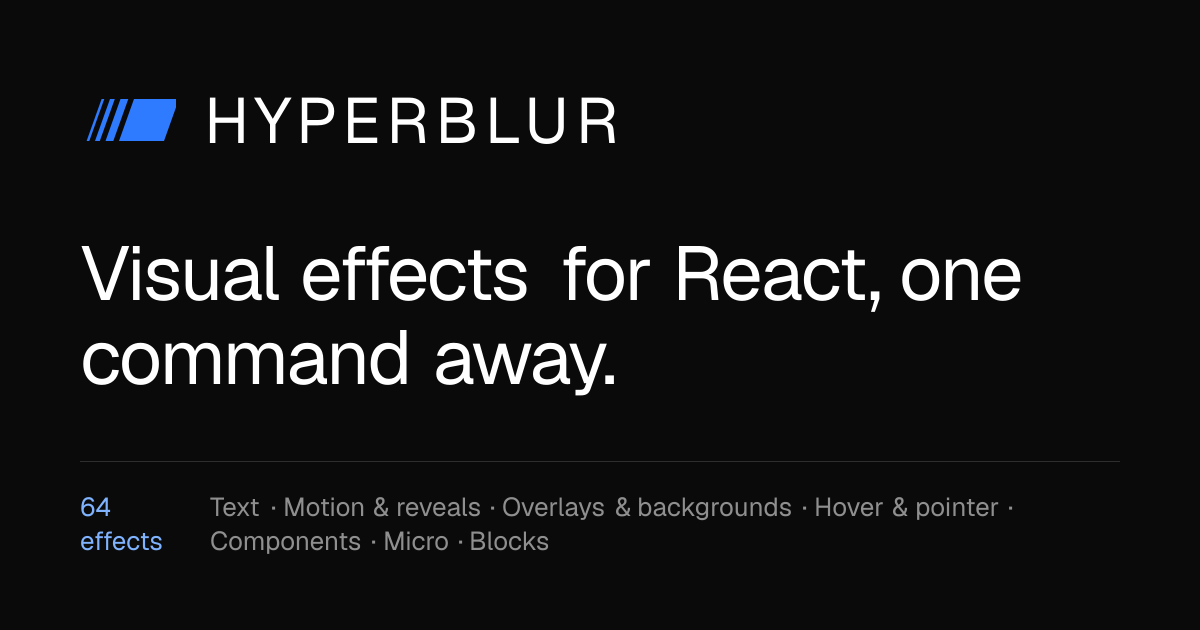
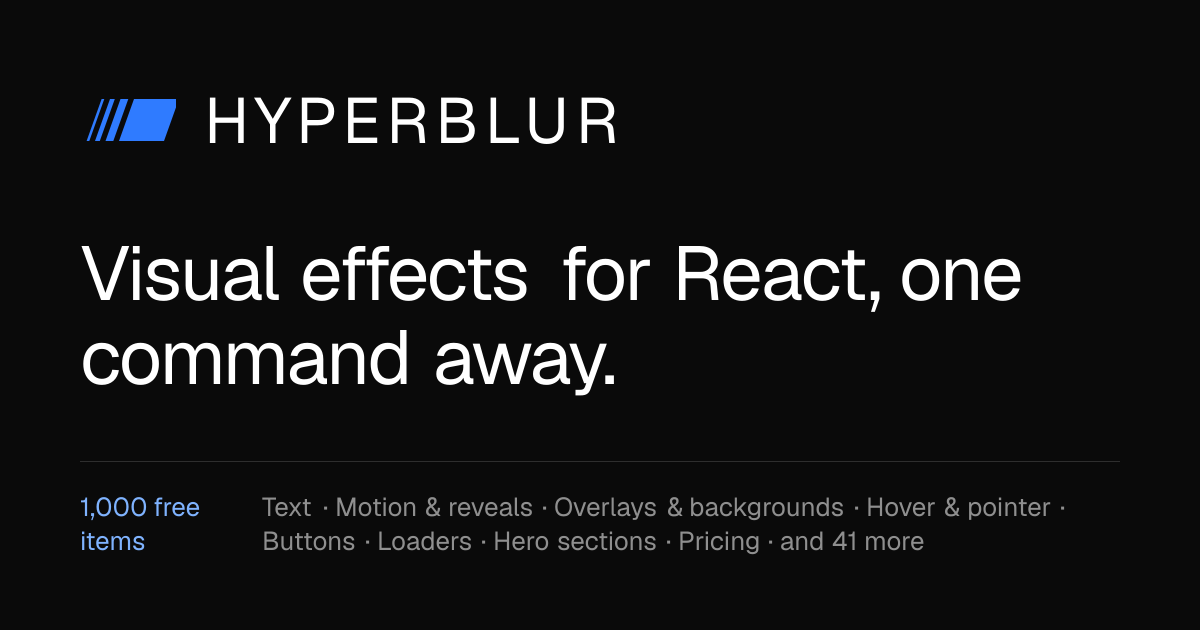
Launch kit: imagem de capa com 1.000 itens e textos com a contagem atual

Changed region(s): [[0.0617, 0.7841, 0.8942, 0.8746]]

diff --git a/launch/listings.md b/launch/listings.md
@@ -1,6 +1,6 @@
 # Hyperblur listings: copy to paste
 
-All copy is in English. Facts only: 998 items in 49 categories across three groups: effects, components and page blocks (heroes, features, bento, pricing, footers, auth, blog, ecommerce and more), MIT license, effects have no dependency besides React, installed with the shadcn CLI, MCP server `@hyperblur/mcp` (stdio), Claude Code plugin `hyperblur`.
+All copy is in English. Facts only: 1,000 items in 49 categories across three groups: effects, components and page blocks (heroes, features, bento, pricing, footers, auth, blog, ecommerce and more), MIT license, effects have no dependency besides React, installed with the shadcn CLI, MCP server `@hyperblur/mcp` (stdio), Claude Code plugin `hyperblur`.
 
 
 ## Shared facts
@@ -24,11 +24,11 @@ All copy is in English. Facts only: 998 items in 49 categories across three grou
 
 Tagline (35 chars): `Copy-paste visual effects for React`
 
-Short description: `998 copy-paste React effects, components and page blocks. Install with one shadcn command or from your coding agent through MCP.`
+Short description: `1,000 copy-paste React effects, components and page blocks. Install with one shadcn command or from your coding agent through MCP.`
 
 Long description:
 
-> Hyperblur is a catalog of copy-paste React visual effects, components, micro interactions and page blocks. Each item is a single file with no dependency besides React, installed into your project with one shadcn command, so the code is yours to edit. The catalog has 998 items across text effects, motion and reveals, overlays and backgrounds, hover and pointer effects, components, micro interactions and page blocks such as a hero, pricing section and FAQ.
+> Hyperblur is a catalog of copy-paste React visual effects, components, micro interactions and page blocks. Each item is a single file with no dependency besides React, installed into your project with one shadcn command, so the code is yours to edit. The catalog has 1,000 items across text effects, motion and reveals, overlays and backgrounds, hover and pointer effects, components, micro interactions and page blocks such as a hero, pricing section and FAQ.
 >
 > It is built to work with coding agents too. The `@hyperblur/mcp` server lets Claude Code, Cursor, Claude Desktop and other MCP clients search the catalog, read an item's props and usage, and install it into a project. Everything in the repository is MIT licensed.
 
@@ -131,7 +131,7 @@ PR title: `registry: add @hyperblur`
 
 PR body:
 
-> Adds the Hyperblur registry: 998 copy-paste React components (effects, components and page blocks). Open source, MIT. Registry index: https://hyperblur.dev/r/registry.json
+> Adds the Hyperblur registry: 1,000 copy-paste React components (effects, components and page blocks). Open source, MIT. Registry index: https://hyperblur.dev/r/registry.json
 
 ## registry.directory
 
@@ -149,7 +149,7 @@ PR body:
 | --- | --- |
 | Name | Hyperblur |
 | Tagline (35/60) | Copy-paste visual effects for React |
-| Description (under 500) | 998 copy-paste React effects, components and page blocks: glitch and blur text, scanlines, speed lines, hover effects, carousels, hero and pricing sections. Each is one file with no dependency besides React. Install with one shadcn command, or let Claude Code or Cursor do it through the MCP server. Free and MIT licensed. |
+| Description (under 500) | 1,000 copy-paste React effects, components and page blocks: glitch and blur text, scanlines, speed lines, hover effects, carousels, hero and pricing sections. Each is one file with no dependency besides React. Install with one shadcn command, or let Claude Code or Cursor do it through the MCP server. Free and MIT licensed. |
 | Topics (max 3, check the names in the form) | Developer Tools, Design Tools, Open Source |
 | Links | Site, GitHub, npm |
 | Thumbnail | `launch/assets/avatar-blue-1024.png`, resized to 240x240 |
@@ -159,7 +159,7 @@ Maker comment:
 
 > Hi, I'm Anderson, the maker of Hyperblur.
 >
-> I wanted visual effects I could drop into a React project without adding a package and without fighting a build setup. Hyperblur is a catalog of 998 of them: text effects like glitch and decode, overlays like scanlines and film grain, hover effects, motion and reveals, some components, micro interactions and a few page blocks. Each item is one file with no dependency besides React. You install it with a shadcn command and the code is yours.
+> I wanted visual effects I could drop into a React project without adding a package and without fighting a build setup. Hyperblur is a catalog of 1,000 of them: text effects like glitch and decode, overlays like scanlines and film grain, hover effects, motion and reveals, some components, micro interactions and a few page blocks. Each item is one file with no dependency besides React. You install it with a shadcn command and the code is yours.
 >
 > It also works with coding agents. There is an MCP server (`npx -y @hyperblur/mcp`) and a Claude Code plugin, so you can ask for an effect, and the agent searches the catalog, reads the props and installs the file. Every effect page also has a prompt you can paste into any agent.
 >
@@ -175,7 +175,7 @@ URL: https://github.com/Hyperblur/Hyperblur (or the site; neither needs an accou
 
 First comment:
 
-> Hi HN. Hyperblur is a catalog of copy-paste React visual effects, components and page blocks (998 items today). Each one is a single file with no dependency besides React. You install it with the shadcn CLI, for example `npx shadcn@latest add https://hyperblur.dev/r/glitch-text.json`, and then the file is yours to edit.
+> Hi HN. Hyperblur is a catalog of copy-paste React visual effects, components and page blocks (1,000 items today). Each one is a single file with no dependency besides React. You install it with the shadcn CLI, for example `npx shadcn@latest add https://hyperblur.dev/r/glitch-text.json`, and then the file is yours to edit.
 >
 > I also wrote an MCP server (`npx -y @hyperblur/mcp`) and a Claude Code plugin. The server has five tools: list categories, search, get props and usage, get source, and install. The idea is that you ask your coding agent for "a glitch heading" and it finds, reads and installs the right item instead of inventing one.
 >
@@ -191,7 +191,7 @@ Title: `I made a free catalog of copy-paste React visual effects (MIT, one shadc
 
 Body:
 
-> I have been building Hyperblur, a catalog of copy-paste React effects, components and page blocks. 998 items so far: text effects (glitch, decode, split flap), overlays (scanlines, film grain, aurora), hover effects, reveals, a few components and some page blocks.
+> I have been building Hyperblur, a catalog of copy-paste React effects, components and page blocks. 1,000 items so far: text effects (glitch, decode, split flap), overlays (scanlines, film grain, aurora), hover effects, reveals, a few components and some page blocks.
 >
 > How it works: each item is one file with no dependency besides React. You install it with a shadcn command, for example `npx shadcn@latest add https://hyperblur.dev/r/glitch-text.json`, and then edit it as you like. Effects respect prefers-reduced-motion.
 >
@@ -221,7 +221,7 @@ Replace `cover_image` with an uploaded 1000x420 image if the Open Graph route do
 Outline:
 
 1. The problem: effects usually come as packages with their own build and styling assumptions. One file you own is easier to change.
-2. What Hyperblur is: 998 items in forty-nine categories, one file each, no dependency besides React, MIT.
+2. What Hyperblur is: 1,000 items in forty-nine categories, one file each, no dependency besides React, MIT.
 3. How an item is built: `"use client"`, CSS inside the file, prefixed class names, `prefers-reduced-motion`, deterministic pseudo-random values to keep hydration stable.
 4. How it installs: a shadcn registry (`/r/<slug>.json`), with the install command shown on every page. Show the glitch text example.
 5. The catalog as data: `/r/index.json` with props, usage and install command for every item.
@@ -234,7 +234,7 @@ Outline:
 
 Variant 1:
 
-> Hyperblur is a catalog of 998 copy-paste React effects, components and page blocks. Each one is a single file with no dependencies besides React. Install one with a shadcn command, or let your coding agent do it through MCP. MIT. https://hyperblur.dev
+> Hyperblur is a catalog of 1,000 copy-paste React effects, components and page blocks. Each one is a single file with no dependencies besides React. Install one with a shadcn command, or let your coding agent do it through MCP. MIT. https://hyperblur.dev
 
 Variant 2:
 
@@ -256,7 +256,7 @@ Variant 3:
 
 Title: `Hyperblur 0.2.0`
 
-> The MCP server `@hyperblur/mcp` 0.2.0 adds `list_categories`, reads categories from the catalog instead of a fixed list, and covers all 998 items: effects, components, micro interactions and page blocks.
+> The MCP server `@hyperblur/mcp` 0.2.0 adds `list_categories`, reads categories from the catalog instead of a fixed list, and covers all 1,000 items: effects, components, micro interactions and page blocks.
 >
 > Run it with `npx -y @hyperblur/mcp`. Claude Code users can install the plugin with `claude plugin install hyperblur --marketplace Hyperblur/Hyperblur`.
 
